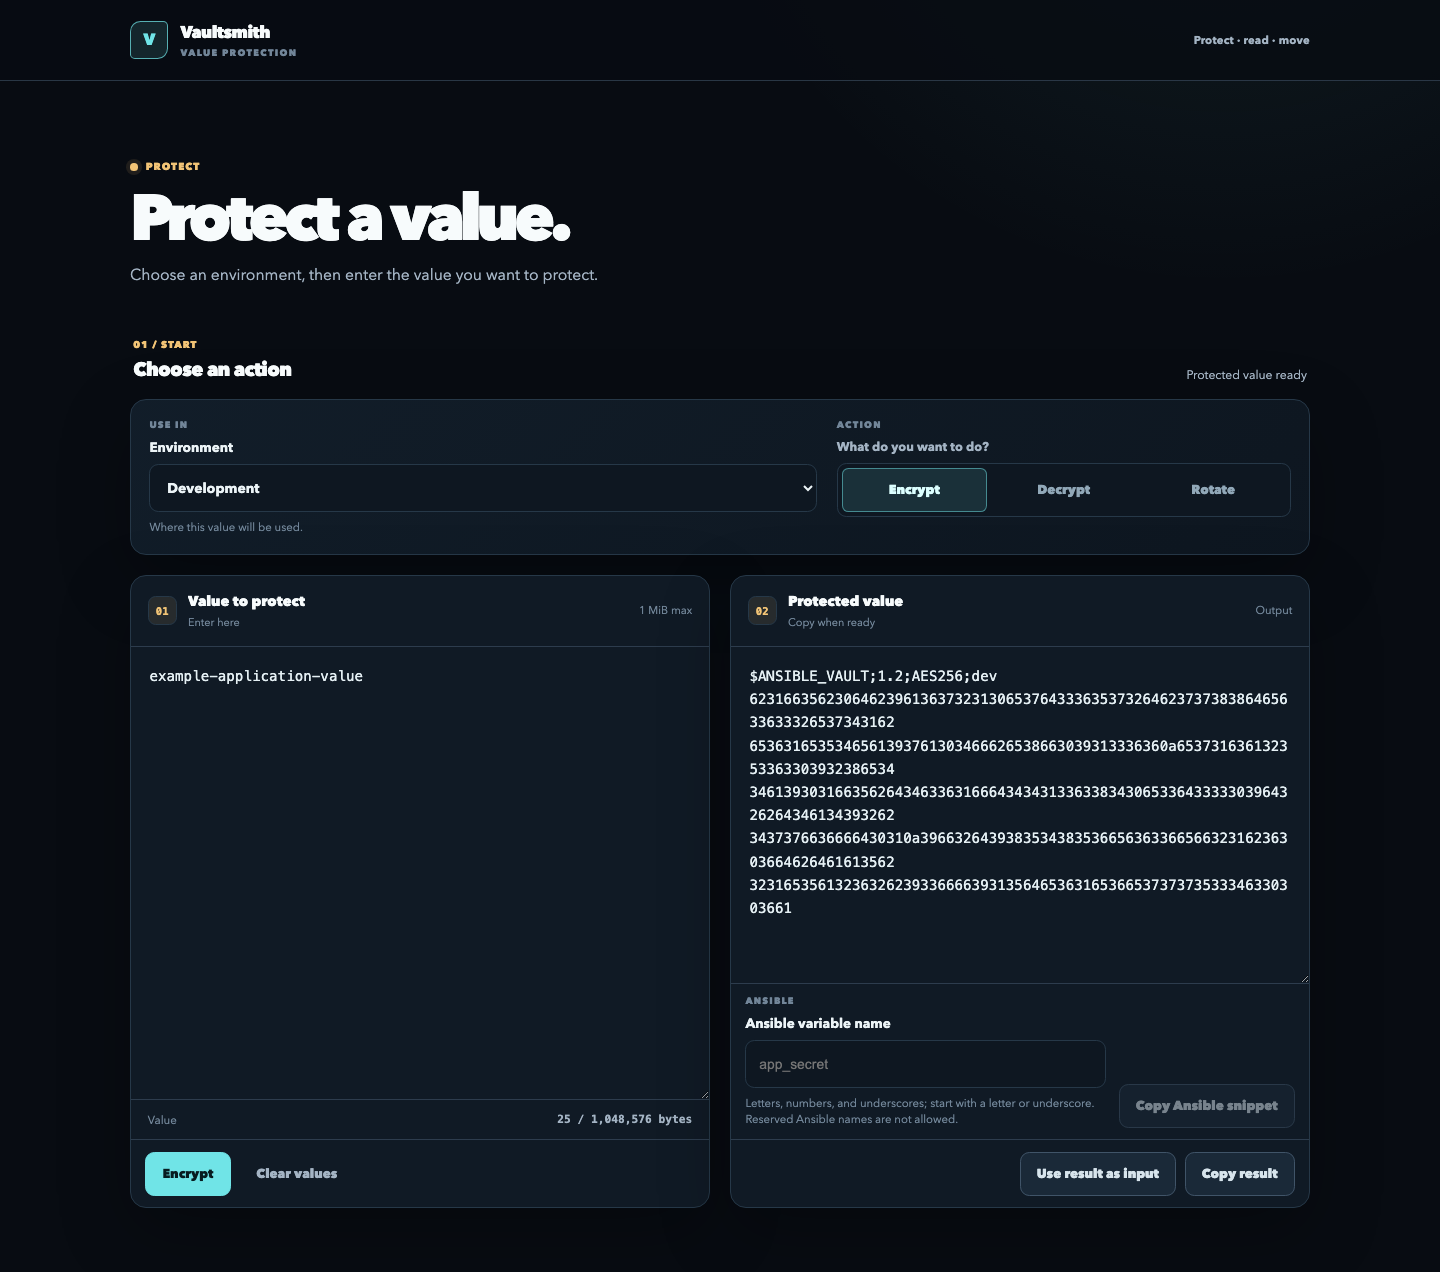
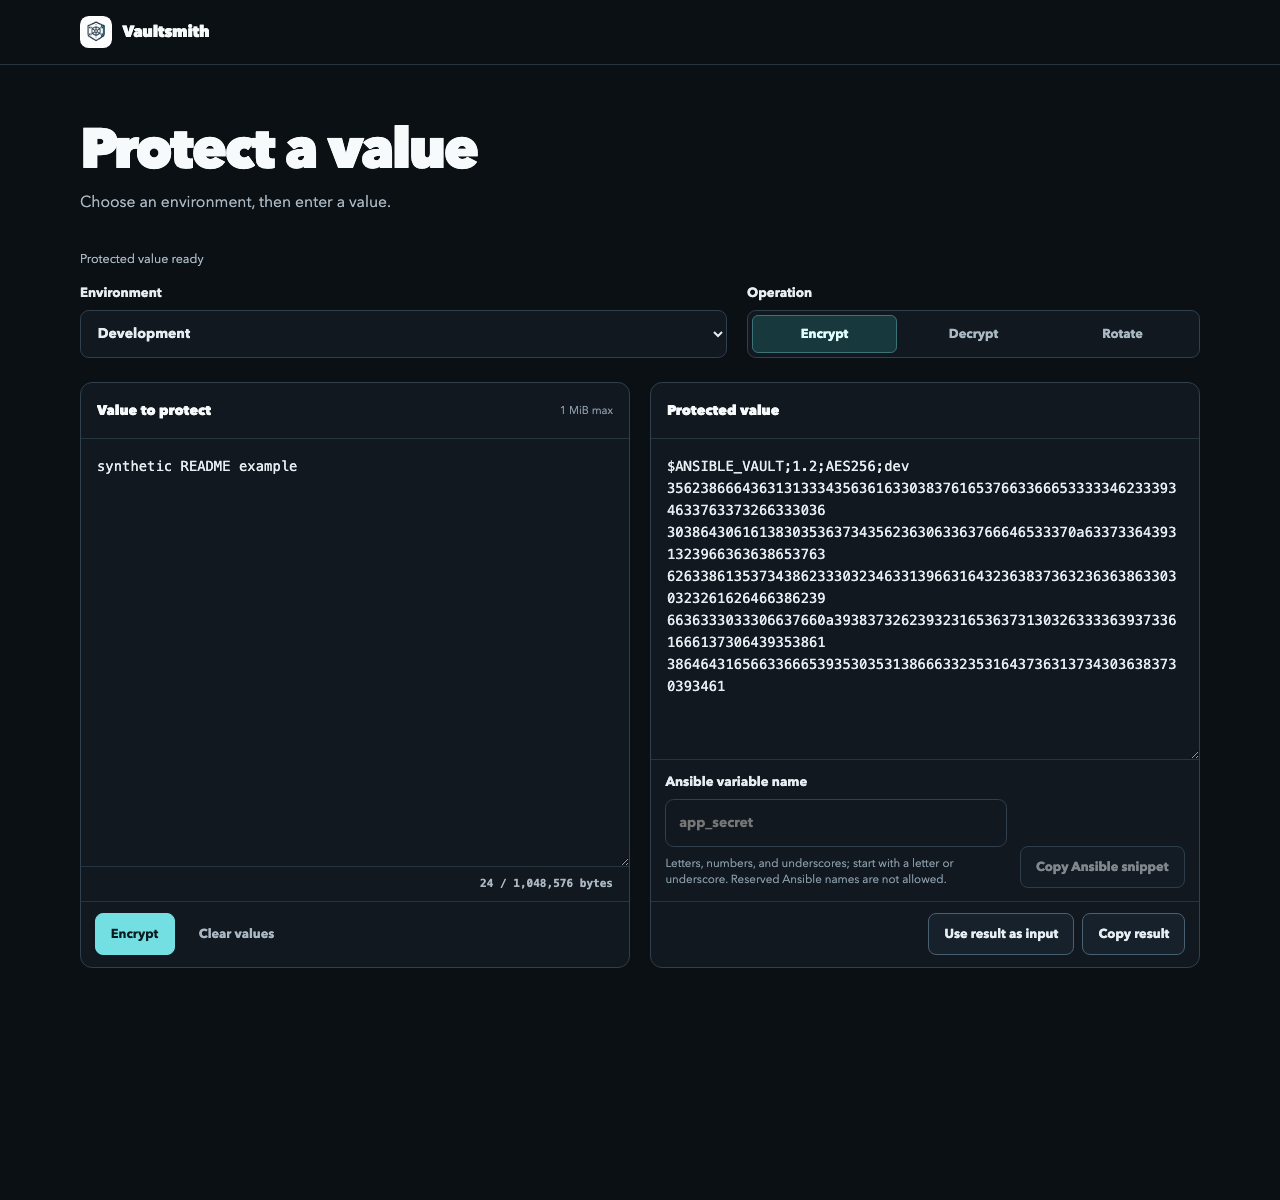
docs: refresh README screenshots

diff --git a/README.md b/README.md
@@ -32,9 +32,9 @@ Vaultsmith is for short, deliberate operations on one value at a time:
 
 The server loads vault passwords from environment variables. The browser receives profile IDs and labels, then sends the value being operated on to the server. Vaultsmith does not persist values, upload files, store browser state, or log request bodies.
 
-![Vaultsmith workbench](docs/screenshots/workbench.png)
+![Vaultsmith workbench with logo](docs/screenshots/workbench.png)
 
-![Vaultsmith encrypt result](docs/screenshots/encrypted-value.png)
+![Vaultsmith encrypt result with synthetic data](docs/screenshots/encrypted-value.png)
 
 Limits are deliberate:
 
